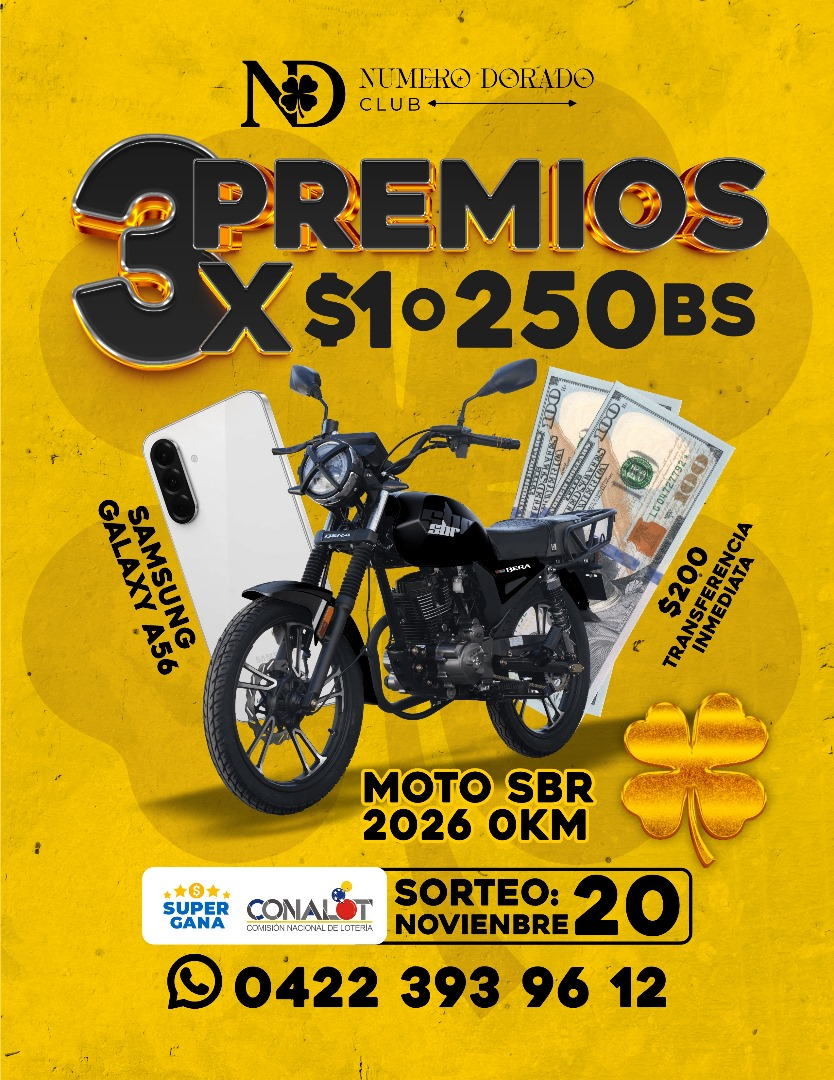
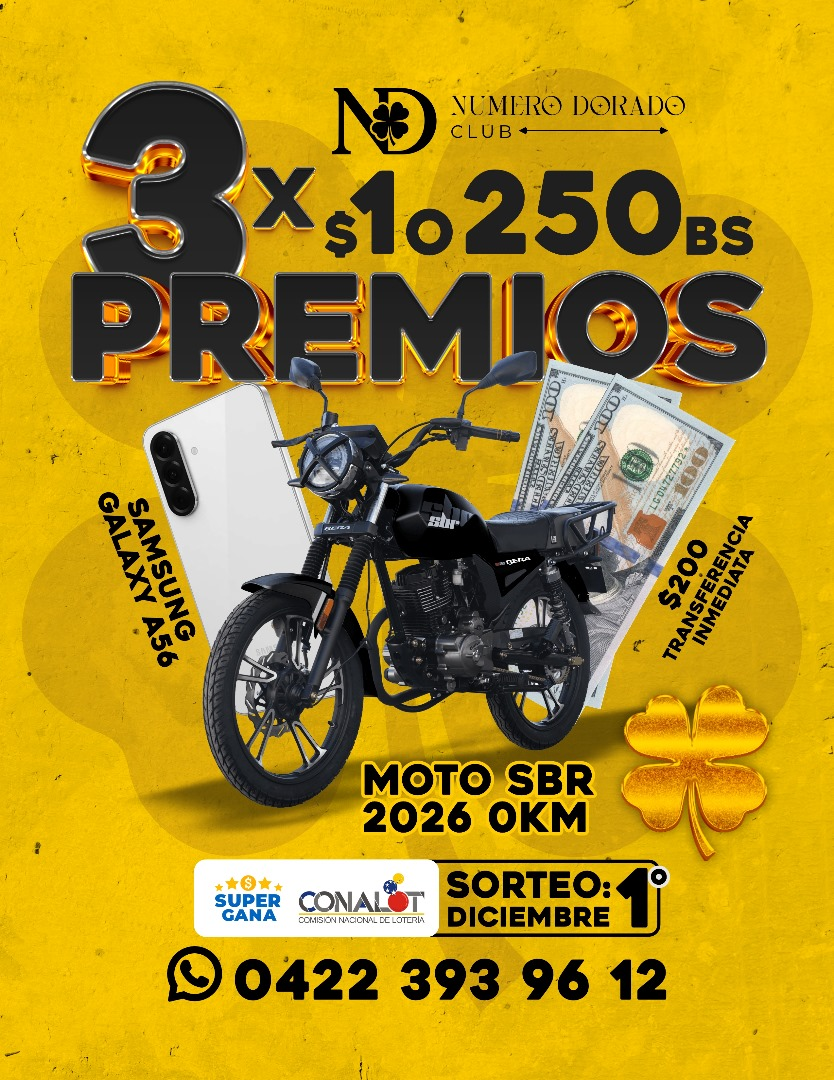
cambies

diff --git a/src/app/checkout/page.tsx b/src/app/checkout/page.tsx
@@ -72,68 +72,78 @@ export default function Page() {
     (metodoPago === 'binance' || metodoPago === 'zelle' || bancoOperacion.trim() !== '')
 
   const handleConfirmarCompra = async () => {
-    if (enviando) return
-    setEnviando(true)
+  if (enviando) return
+  setEnviando(true)
 
-    try {
-      const ahora = new Date()
-      const fechaHora = ahora.toISOString()
+  const mensajeWhatsApp = `Hola, envío el comprobante de pago para la referencia: ${referencia}`
+  const numeroWhatsApp = '04223939612'
+  const urlWhatsApp = `https://wa.me/58${numeroWhatsApp.replace(/^0/, '')}?text=${encodeURIComponent(mensajeWhatsApp)}`
 
-      const nuevaVenta = {
-        nombre,
-        apellido,
-        cedula,
-        telefono,
-        correo,
-        banco: bancoOperacion,
-        metodo:
-          metodoPago === 'movil' ? 'Pago móvil' :
-          metodoPago === 'binance' ? 'Binance Pay' :
-          'Zelle',
-        numeros: numerosUnicos.map(n => n.toString().padStart(4, '0')),
-        referencia,
-        monto: metodoPago === 'movil'
-          ? `Bs ${totalBs.toFixed(2)}`
-          : `$${totalUSD.toFixed(2)}`,
-        fechaHora
-      }
+  const confirmarEnvio = window.confirm('📲 Serás redirigido a WhatsApp para enviar tu comprobante. ¿Deseas continuar?')
 
-      const referenciaDoc = doc(db, 'ventasRegistradas', nuevaVenta.referencia)
-      const docExistente = await getDoc(referenciaDoc)
-
-      if (docExistente.exists()) {
-        alert('⚠ Ya existe una venta con esta referencia. Usa una diferente.')
-        setEnviando(false)
-        return
-      }
-
-      await setDoc(referenciaDoc, nuevaVenta)
-      for (const num of nuevaVenta.numeros) {
-        const ref = doc(db, 'estadoNumeros', num)
-        await setDoc(ref, {
-          estado: 'reservado',
-          reservadoPor: 'confirmado',
-          timestamp: Date.now()
-        }, { merge: true })
-      }
-
-      localStorage.removeItem('carritoNumeros')
-      setSeleccionados([])
-      setMostrarModal(false)
-      setMostrarConfirmacionFinal(true)
-
-      const mensajeWhatsApp = `Hola, envío el comprobante de pago para la referencia: ${referencia}`
-      const numeroWhatsApp = '04147996937'
-      const urlWhatsApp = `https://wa.me/58${numeroWhatsApp.replace(/^0/, '')}?text=${encodeURIComponent(mensajeWhatsApp)}`
-      window.open(urlWhatsApp, '_blank')
-
-    } catch (error) {
-      console.error('❌ Error al guardar venta en Firestore:', error)
-      alert('❌ Hubo un error al registrar tu compra. Intenta nuevamente.')
-    } finally {
-      setEnviando(false)
-    }
+  if (!confirmarEnvio) {
+    alert('❌ El envío fue cancelado. No se ha registrado la compra.')
+    setEnviando(false)
+    return // ⛔ Detiene el flujo completamente
   }
+
+  try {
+    const ahora = new Date()
+    const fechaHora = ahora.toISOString()
+
+    const nuevaVenta = {
+      nombre,
+      apellido,
+      cedula,
+      telefono,
+      correo,
+      banco: bancoOperacion,
+      metodo:
+        metodoPago === 'movil' ? 'Pago móvil' :
+        metodoPago === 'binance' ? 'Binance Pay' :
+        'Zelle',
+      numeros: numerosUnicos.map(n => n.toString().padStart(4, '0')),
+      referencia,
+      monto: metodoPago === 'movil'
+        ? `Bs ${totalBs.toFixed(2)}`
+        : `$${totalUSD.toFixed(2)}`,
+      fechaHora
+    }
+
+    const referenciaDoc = doc(db, 'ventasRegistradas', nuevaVenta.referencia)
+    const docExistente = await getDoc(referenciaDoc)
+
+    if (docExistente.exists()) {
+      alert('⚠ Ya existe una venta con esta referencia. Usa una diferente.')
+      setEnviando(false)
+      return
+    }
+
+    await setDoc(referenciaDoc, nuevaVenta)
+    for (const num of nuevaVenta.numeros) {
+      const ref = doc(db, 'estadoNumeros', num)
+      await setDoc(ref, {
+        estado: 'reservado',
+        reservadoPor: 'confirmado',
+        timestamp: Date.now()
+      }, { merge: true })
+    }
+
+    localStorage.removeItem('carritoNumeros')
+    setSeleccionados([])
+    setMostrarModal(false)
+    setMostrarConfirmacionFinal(true)
+
+    window.open(urlWhatsApp, '_blank')
+
+  } catch (error) {
+    console.error('❌ Error al guardar venta en Firestore:', error)
+    alert('❌ Hubo un error al registrar tu compra. Intenta nuevamente.')
+  } finally {
+    setEnviando(false)
+  }
+}
+
   
   return (
     <div>

diff --git a/src/components/PremioCard.tsx b/src/components/PremioCard.tsx
@@ -38,8 +38,8 @@ export default function CarruselPremios() {
     seconds: 0,
   })
 
-  // 🎯 Sorteo el 20 de noviembre de 2025 a la 1:00 PM hora local
-  const drawDateLocal = new Date(2025, 10, 20, 13, 0, 0) // Mes 10 = noviembre
+  // 🎯 Sorteo el 1 de diciembre de 2025 a la 1:00 PM hora local
+  const drawDateLocal = new Date(2025, 11, 1, 13, 0, 0) // Mes 11 = diciembre
 
   useEffect(() => {
     const interval = setInterval(() => {
@@ -86,7 +86,7 @@ export default function CarruselPremios() {
         <p className="premio-valor">{premio.valor}</p>
 
         <div className="premio-info">
-          <span>Sorteo: 20 Nov 2025</span>
+          <span>Sorteo: 1 Dic 2025</span>
           <span>·</span>
           <span>9999 números</span>
         </div>
@@ -120,3 +120,4 @@ export default function CarruselPremios() {
     </div>
   )
 }
+
